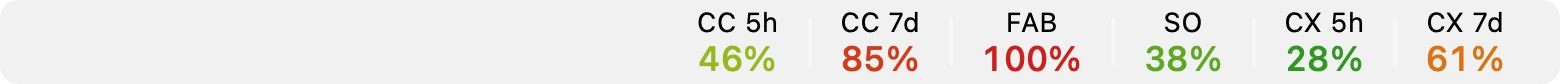
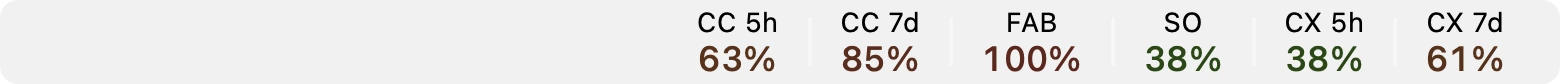
fix(macos): improve light status contrast (#5)

Changed region(s): [[0.6154, 0.5238, 0.9846, 0.8571], [0.4308, 0.5238, 0.5846, 0.8571]]

diff --git a/macos/tests/QuotalineCoreTests/UsageColorContrastTests.swift b/macos/tests/QuotalineCoreTests/UsageColorContrastTests.swift
@@ -1,3 +1,4 @@
+import AppKit
 import QuotalineCore
 import Testing
 
@@ -31,7 +32,28 @@ func usageContrastMapsTheAccessibilityFlag(increased: Bool, expected: UsageContr
 }
 
 @Test func statusColoursFollowTheAccessibleLadder() {
-  #expect(UsageColor.statusColor(percent: 0) == UsageLadder.status.green)
-  #expect(UsageColor.statusColor(percent: 60) == UsageLadder.status.orange)
-  #expect(UsageColor.statusColor(percent: 100) == UsageLadder.status.red)
+  #expect(UsageColor.statusColor(percent: 0, dark: true) == UsageLadder.status.green)
+  #expect(UsageColor.statusColor(percent: 60, dark: true) == UsageLadder.status.orange)
+  #expect(UsageColor.statusColor(percent: 100, dark: true) == UsageLadder.status.red)
+  #expect(UsageColor.statusColor(percent: 0, dark: false) == UsageLadder.lightStatus.green)
+  #expect(UsageColor.statusColor(percent: 60, dark: false) == UsageLadder.lightStatus.orange)
+  #expect(UsageColor.statusColor(percent: 100, dark: false) == UsageLadder.lightStatus.red)
+}
+
+@Test func lightStatusColoursRemainReadableOnSilver() {
+  let linear: (CGFloat) -> Double = { value in
+    let channel = Double(value)
+    return channel <= 0.04045 ? channel / 12.92 : pow((channel + 0.055) / 1.055, 2.4)
+  }
+  let background = linear(241 / 255)
+  for percent in 0...100 {
+    let tone = UsageColor.statusColor(percent: Double(percent), dark: false)
+    let color = NSColor(
+      hue: tone.hue, saturation: tone.saturation, brightness: tone.brightness, alpha: 1
+    ).usingColorSpace(.deviceRGB)!
+    let luminance =
+      0.2126 * linear(color.redComponent) + 0.7152 * linear(color.greenComponent)
+      + 0.0722 * linear(color.blueComponent)
+    #expect((background + 0.05) / (luminance + 0.05) >= 7, "\(percent)%")
+  }
 }

diff --git a/macos/src/QuotalineCore/StatusBar/UsageColor.swift b/macos/src/QuotalineCore/StatusBar/UsageColor.swift
@@ -51,6 +51,10 @@ public struct UsageLadder: Hashable, Sendable {
     green: HSBColor(hue: 0.38, saturation: 0.7, brightness: 1),
     orange: HSBColor(hue: 0.08, saturation: 0.78, brightness: 1),
     red: HSBColor(hue: 0.025, saturation: 0.55, brightness: 1))
+  public static let lightStatus = UsageLadder(
+    green: HSBColor(hue: 0.401, saturation: 0.671, brightness: 0.24),
+    orange: HSBColor(hue: 0.063, saturation: 0.676, brightness: 0.336),
+    red: HSBColor(hue: 0.026, saturation: 0.654, brightness: 0.353))
 
   public static func ladder(for contrast: UsageContrast) -> UsageLadder {
     contrast == .increased ? increased : standard
@@ -71,8 +75,8 @@ public enum UsageColor {
     color(pace: pace, percent: percent, ladder: UsageLadder.ladder(for: contrast))
   }
 
-  public static func statusColor(percent: Double) -> HSBColor {
-    color(pace: .unknown, percent: percent, ladder: .status)
+  public static func statusColor(percent: Double, dark: Bool) -> HSBColor {
+    color(pace: .unknown, percent: percent, ladder: dark ? .status : .lightStatus)
   }
 
   private static func color(pace: PaceStatus, percent: Double, ladder: UsageLadder) -> HSBColor {
@@ -81,6 +85,7 @@ public enum UsageColor {
     case .exhausted: return ladder.red
     case .unknown, .onTrack, .behind:
       let fraction = min(max(percent, 0), 100) / 100
+      if fraction == 1 { return ladder.red }
       if fraction < orangeAt {
         return ladder.green.mixed(with: ladder.orange, fraction: pow(fraction / orangeAt, 2))
       }

diff --git a/gnome/extension/tests/color.test.ts b/gnome/extension/tests/color.test.ts
@@ -42,11 +42,16 @@ await test('high usage meters meet dark tile contrast', () => {
 });
 await test('status and widget text meet their surface contrast', () => {
     const activePanel = luminance('#303034');
+    const silverMenuBar = luminance('#f1f1f1');
     const widget = luminance('#494949');
     const lightPanel = luminance('#e3e3e8');
     const lightWidget = luminance('#bdbdbf');
     for (let percent = 0; percent <= 100; percent++) {
         assert.ok((luminance(usageStatusColor(percent)) + 0.05) / (activePanel + 0.05) >= 4.5, `${percent}% status`);
+        assert.ok(
+            (silverMenuBar + 0.05) / (luminance(usageStatusColor(percent, null, true)) + 0.05) >= 7,
+            `${percent}% light status`,
+        );
         assert.ok((luminance(usageTextColor(percent)) + 0.05) / (widget + 0.05) >= 4.5, `${percent}% widget`);
         assert.ok(
             (lightPanel + 0.05) / (luminance(usageTextColor(percent, null, true)) + 0.05) >= 4.5,

diff --git a/macos/src/QuotalineUI/ExportRunner.swift b/macos/src/QuotalineUI/ExportRunner.swift
@@ -21,7 +21,8 @@ public enum ExportRunner {
   ) async throws -> String {
     switch invocation {
     case .files(let command, let directory):
-      let written = try await run(command, directory: directory)
+      // Fix the preview clock so exports keep representative usage levels across reruns.
+      let written = try await run(command, directory: directory, now: Date(timeIntervalSince1970: 1_792_215_000))
       return "wrote \(written.count) files to \(directory.path)"
     case .usageJSON:
       return try UsageExportCommand.output(

diff --git a/macos/src/QuotalineUI/StatusItem/StatusItemRenderer.swift b/macos/src/QuotalineUI/StatusItem/StatusItemRenderer.swift
@@ -34,7 +34,7 @@ public enum StatusItemRenderer {
     case .number:
       return (dark ? NSColor.white : NSColor.black).withAlphaComponent(0.85)
     case .usage(let percent):
-      let hsb = dark ? UsageColor.statusColor(percent: percent) : UsageColor.color(percent: percent)
+      let hsb = UsageColor.statusColor(percent: percent, dark: dark)
       return NSColor(
         hue: hsb.hue, saturation: hsb.saturation, brightness: hsb.brightness, alpha: 1)
     }
